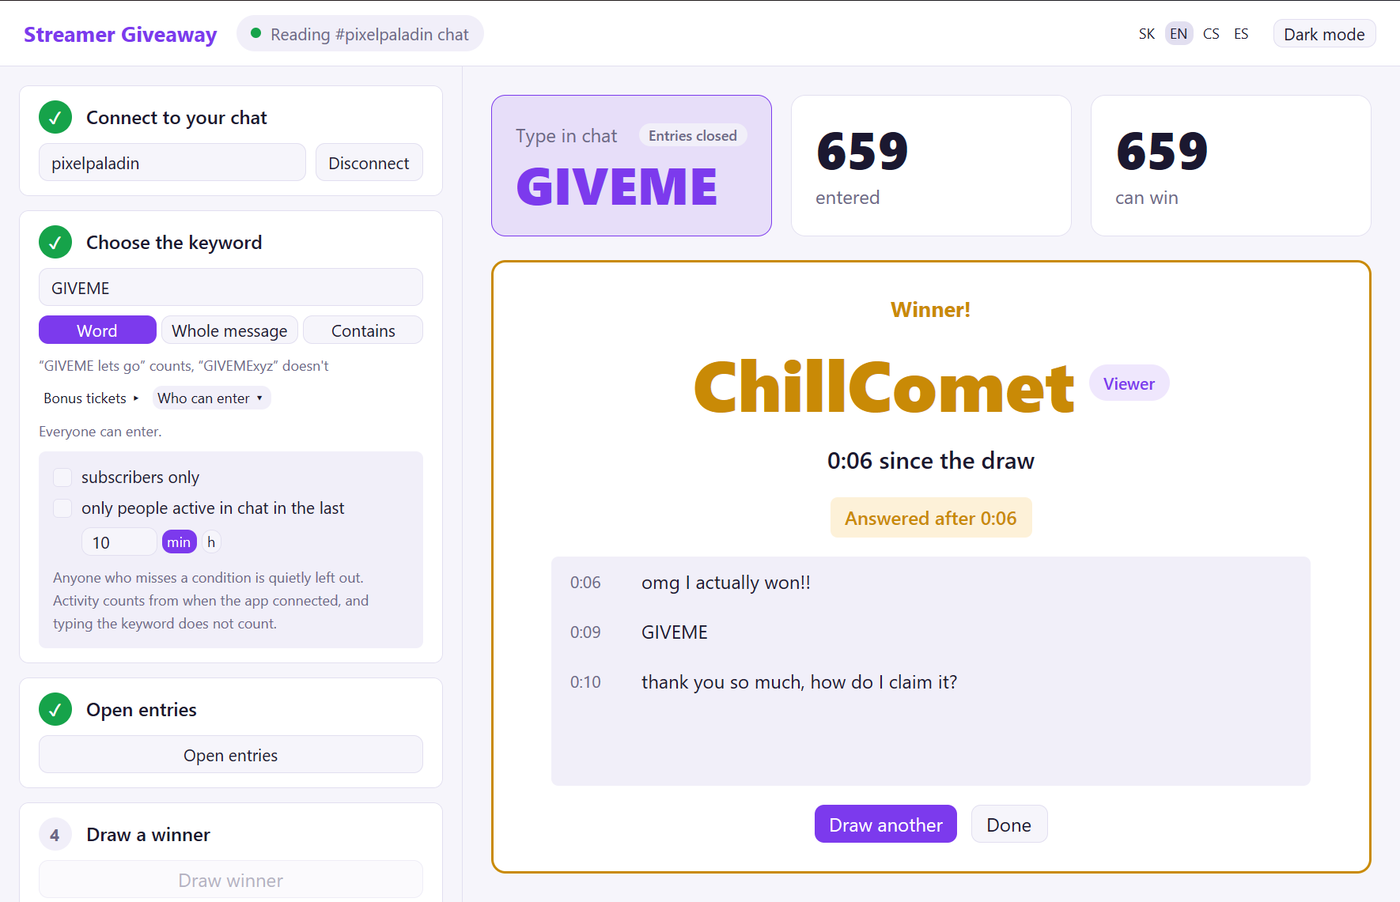
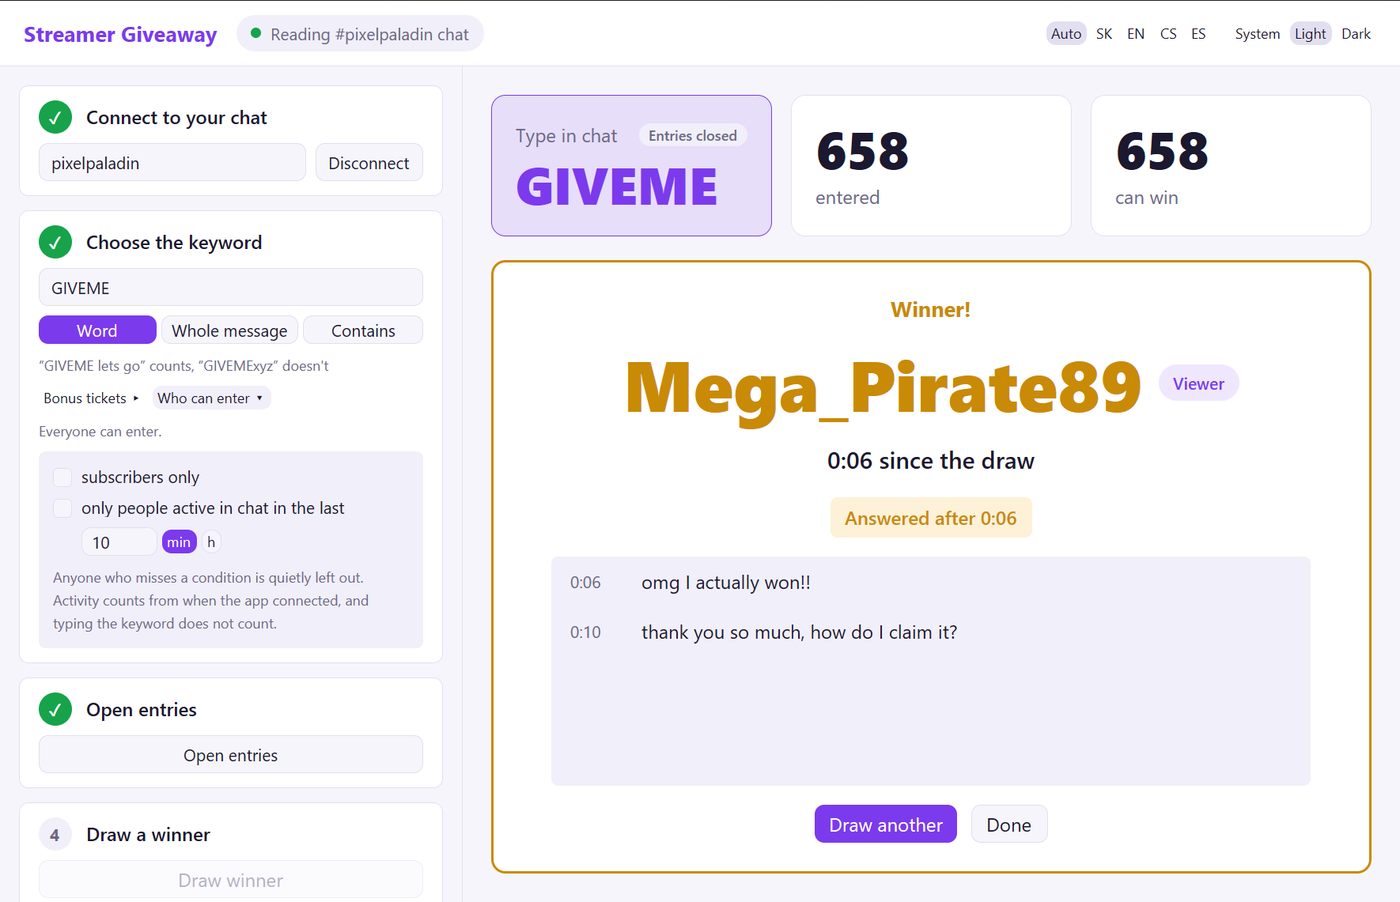
docs: refresh screenshots and gif for the new header

diff --git a/README.md b/README.md
@@ -17,9 +17,10 @@ browser source.
   people who show up just for the giveaway don't count.
 - The window is built to be captured on stream: a large keyword and entrant count, a short reveal
   when you draw, and a winner panel with a stopwatch that stops when the winner answers in chat.
-- Four numbered steps with a short hint guide first-time users, and the next step is highlighted.
+- Four numbered steps with a short hint guide first-time users. The next step is highlighted, and
+  a button you cannot press yet says why.
 - There is a dark and a light theme, and the app speaks English, Slovak, Czech and Spanish. Both
-  follow your system settings until you pick one.
+  follow your system settings until you pick one, and "Auto" or "System" goes back to that.
 
 | Entries coming in | Winner answered | Entry conditions, light theme |
 |---|---|---|
